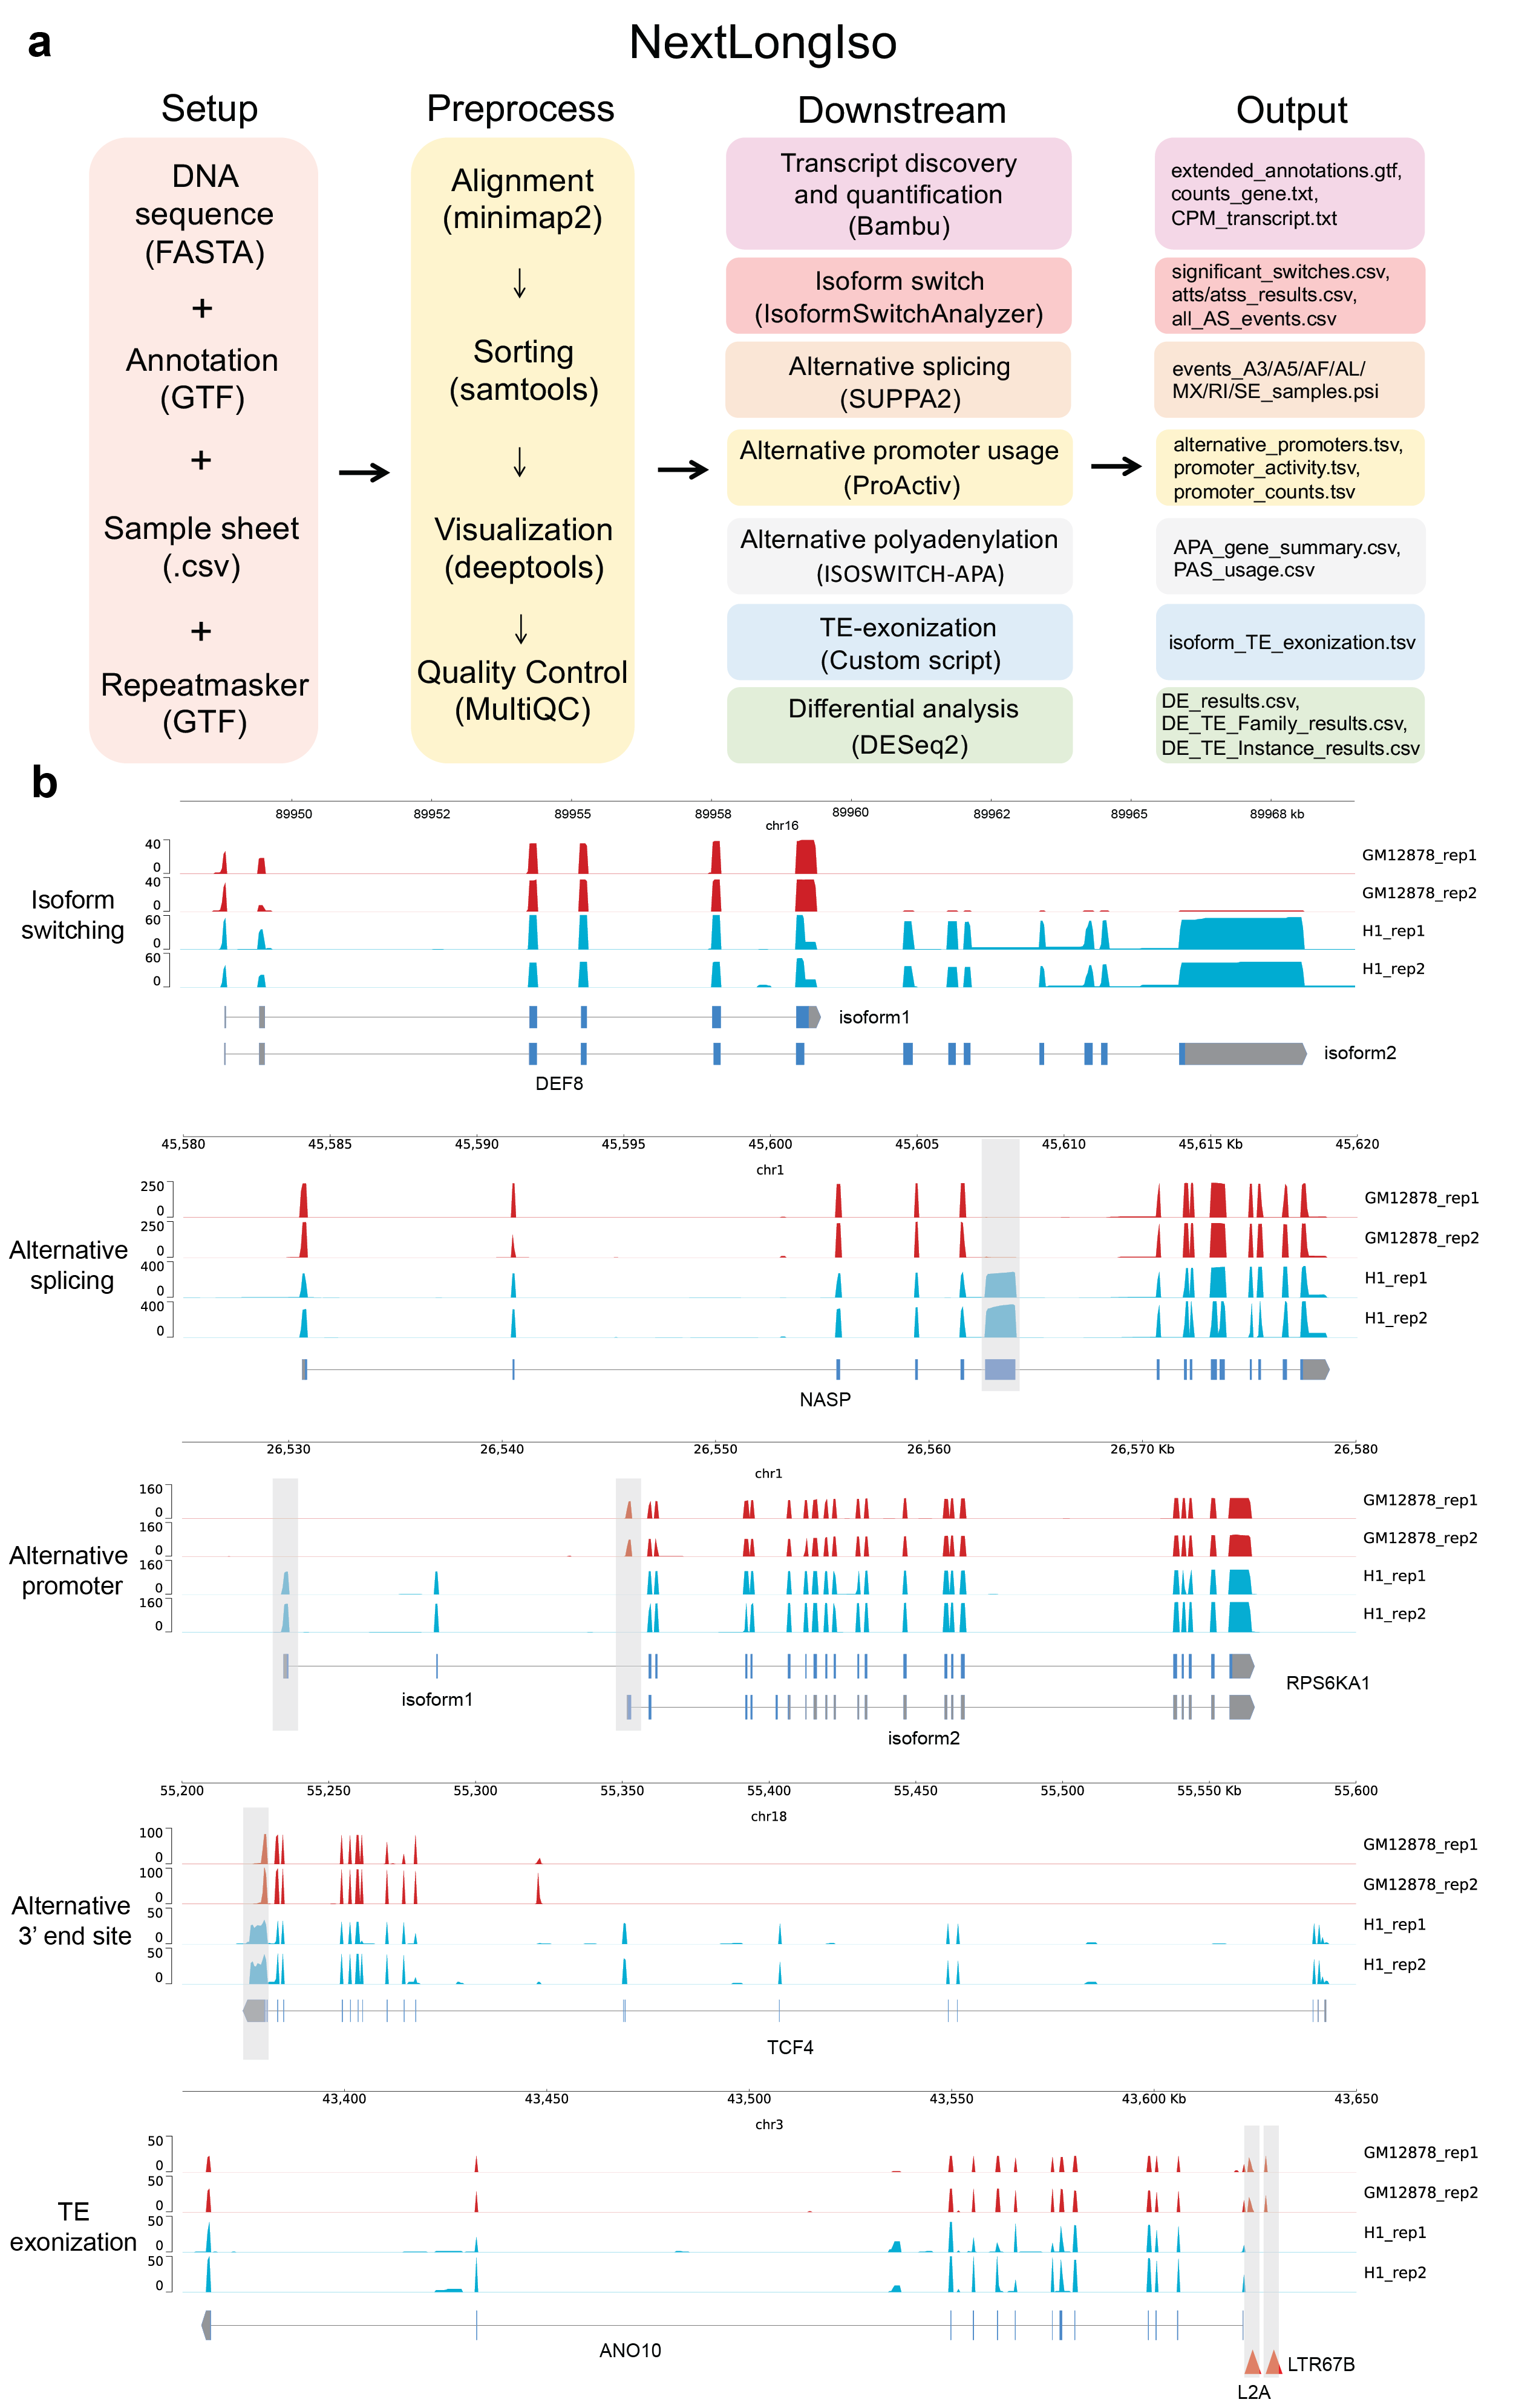
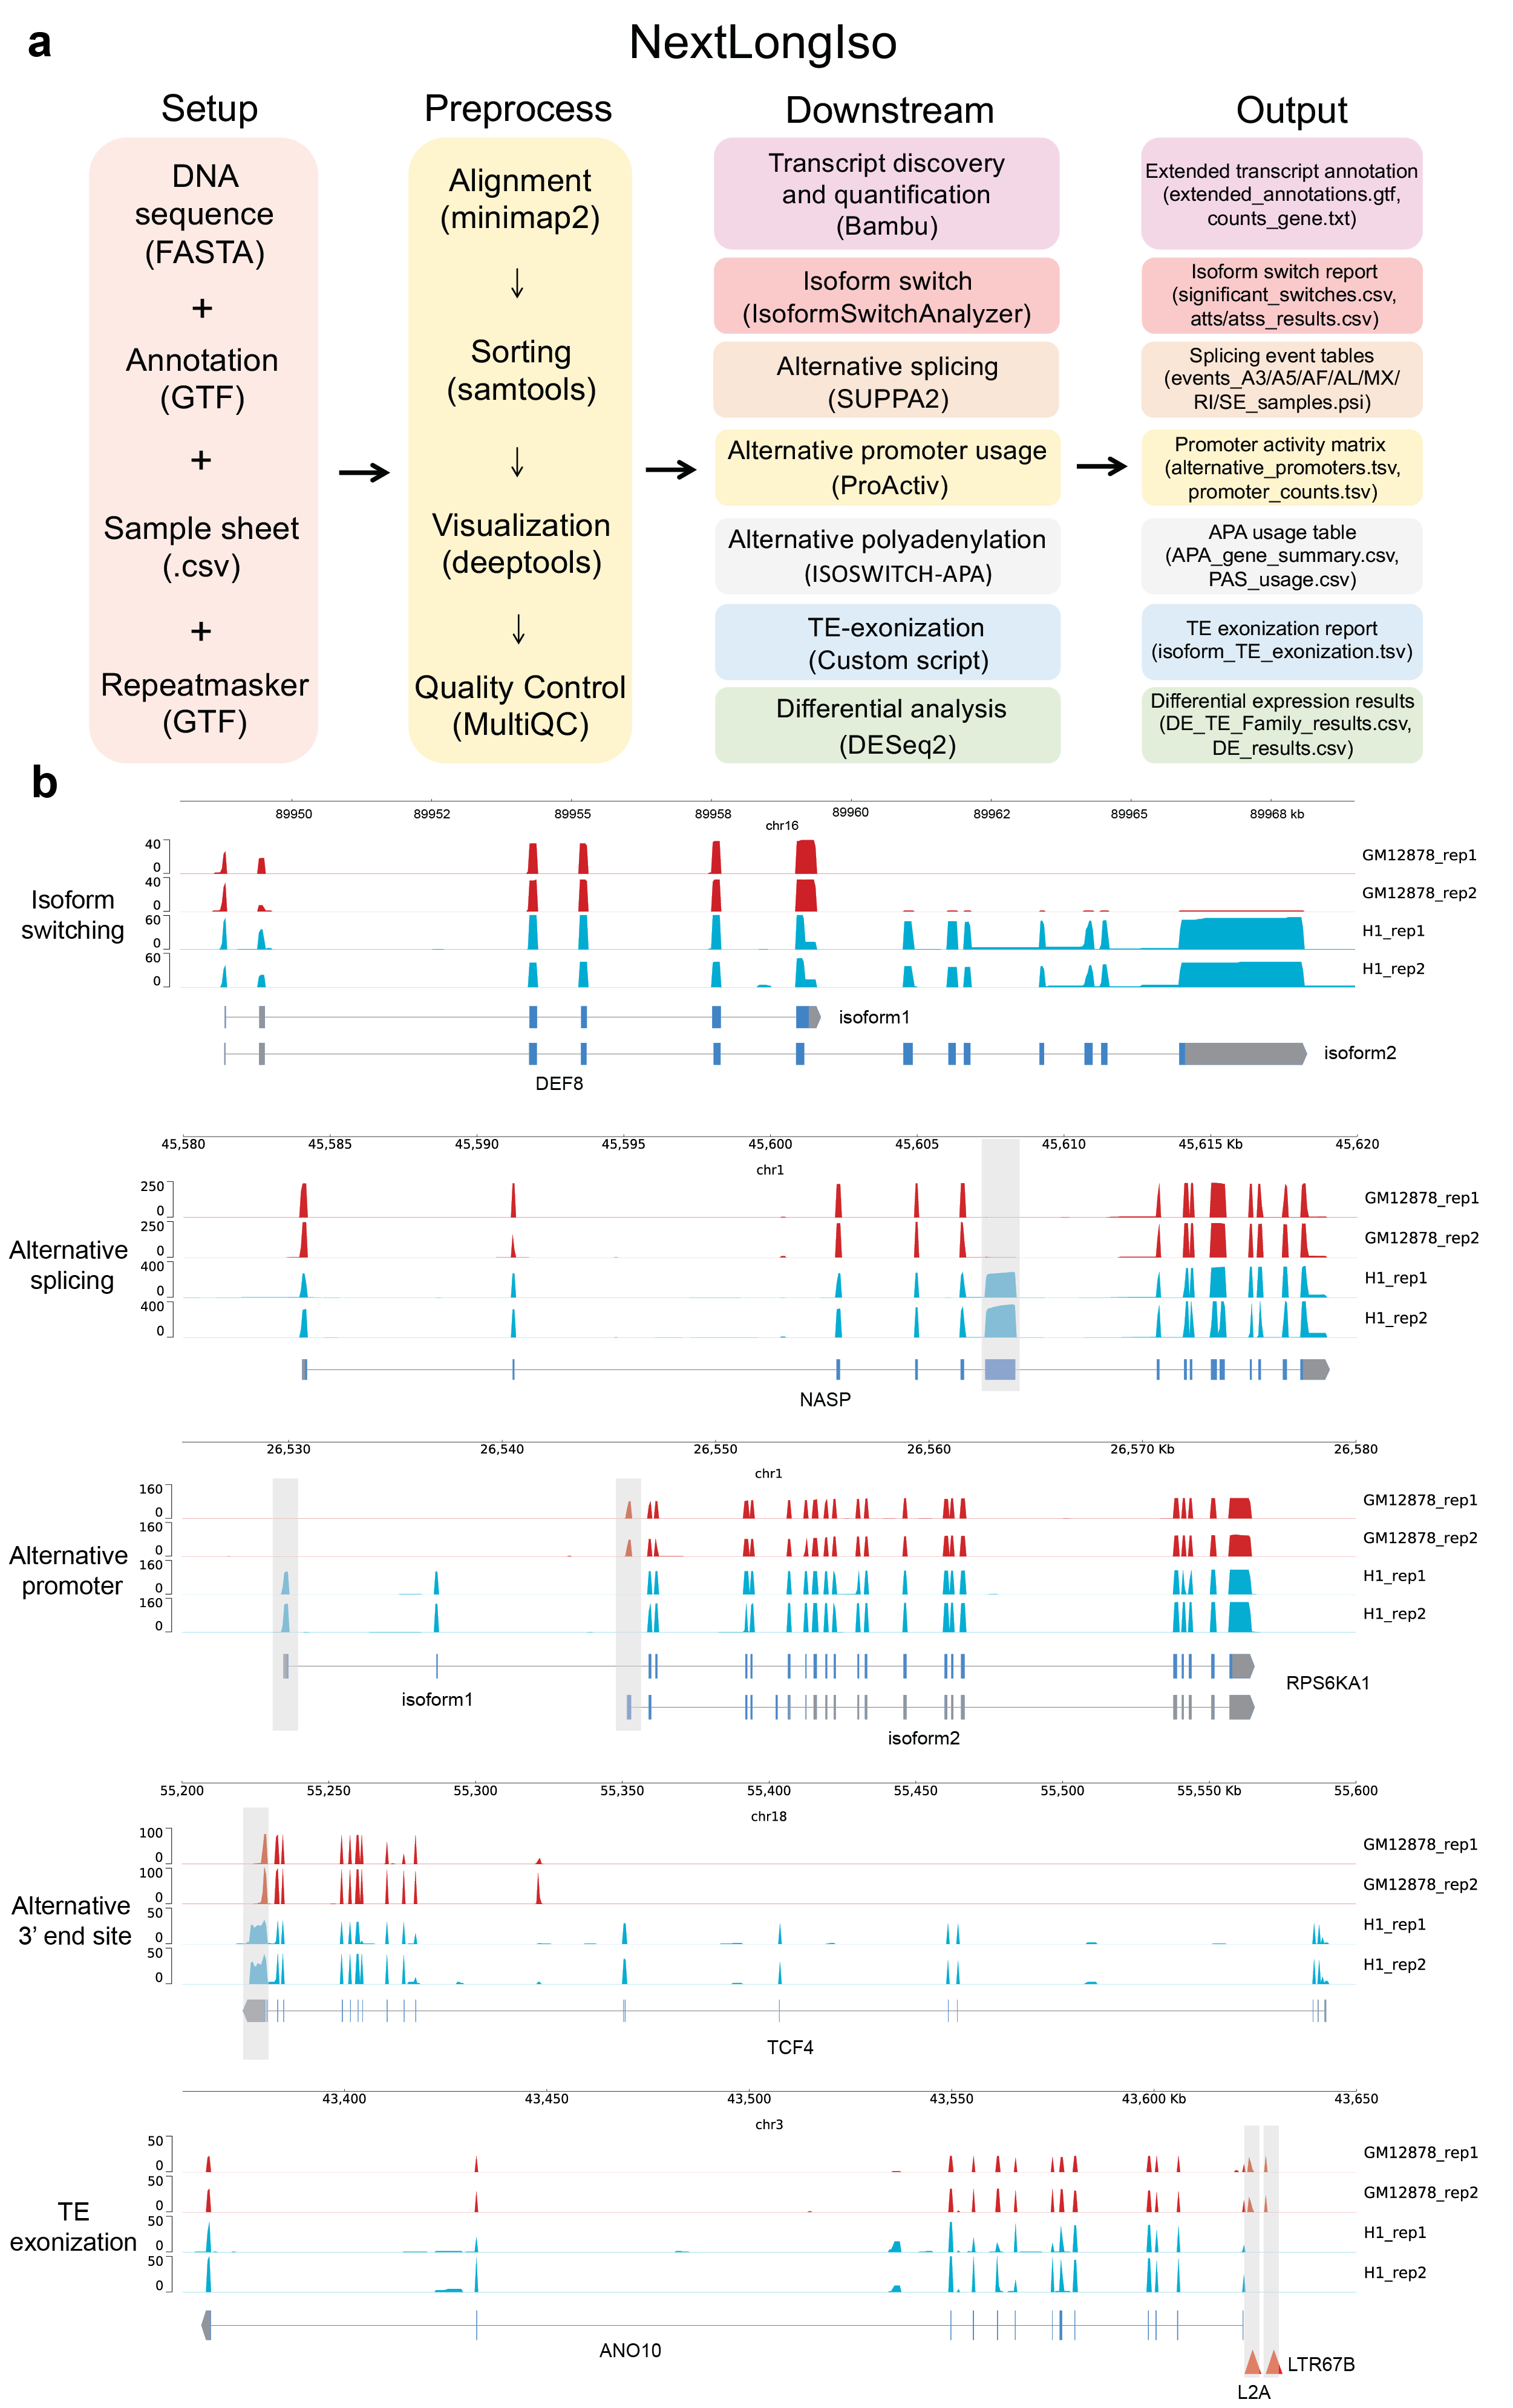
update

diff --git a/README.md b/README.md
@@ -22,76 +22,65 @@ Figure 1. Overview of the NextLongIso pipeline, showing read alignment, isoform 
 
 To run NextLongIso, you need **Nextflow (≥ 25.10.0)** and **Apptainer** or **Singularity. Internet access is required on the first run to pull containers (~several GB total).
 
-1. Install via Conda (Recommended). Note that Python versions 3.11 - 3.13 are natively supported.
+1. Environment Setup (Recommended)
+Use Conda to install the dependencies required to run the pipeline:
 
 ```bash
 # Create and activate environment
-conda create -n nf-LongIso \
-    nf-longiso \
-    nextflow \
+conda create -n nf-LongIso -c conda-forge -c bioconda \
+    nextflow=25.10.0 \
     apptainer \
     openjdk=17 \
     graphviz \
-    -y \
-    -c conda-forge \
-    -c bioconda \
-    -c defaults
+    -y
+```
+
+2. Pipeline Installation
+
+```bash
 conda activate nf-LongIso
-```
 
-2. Install via Pip
-
-```bash
-pip install --user --no-cache-dir nf-LongIso
-```
-
-3. Manual Installation (Build from Source)
-
-```bash
 git clone https://github.com/YidanSunResearchLab/nf-LongIso.git
-cd nf-LongIso
-conda create -n nf-LongIso -c conda-forge python=3.13
-conda activate nf-LongIso
-pip install .
-```
 
-
-🧪 Quick Start
-
-**1. Clone the Repository**
-
-```bash
-git clone https://github.com/YidanSunResearchLab/nf-LongIso.git
 cd nf-LongIso
 ```
 
-**2. Prepare your samplesheet**
-See the example `samplesheet.csv` provided in the data/ repository for the expected format.
-
-🚀 Quick Start for your own genome and sequencing data
+🚀 Quick Start for demo test
 
 **Step 1. Prepare Reference Files (GRCh38/hg38 example)**
-
+```bash
+mkdir -p data/genome
+cd data/genome
+```
 You will need the Genome FASTA, Gene annotation GTF, and TE annotation GTF. Ensure your fasta and gtf are from the same assembly (e.g., GRCh38.p14 → Gencode v38+).
 * **Genome FASTA:** Download from Ensembl or UCSC (primary assembly).
 * **Gene GTF:** Download from Gencode (v47 or newer).
-* **TE GTF:** Download from the RepeatMasker or generate from the UCSC Table Browser (hg38 → Repeats → RepeatMasker → GTF output).
+* **TE GTF:** Download from the RepeatMasker or generate from the UCSC Table Browser (hg38 → Repeats → RepeatMasker → GTF output). Ensure the assembly version matches your Gene GTF and that chromosome nomenclature (e.g., chr1 vs 1) is consistent across all files.
+*Important Note: Inconsistent chromosome naming (e.g., "chr1" in one file and "1" in another) is a common cause of pipeline failure. Always verify the first few lines of your files to ensure they match before starting.*
 
-**Step 2. Process Long-Read Data**
-
-Run the NextLongIso pipeline with your reference files:
+**Step 2. Quick Start**
+#Navigate to the project directory and execute the pipeline using the command below. Note that the file paths are relative to the project root; ensure your reference files are correctly placed in the data/genome/ directory.
 
 ```bash
+cd nf-LongIso
+
 nextflow run main.nf \
   -profile singularity \
   --input_type fastq \
-  --genome /Absolute/path/to/GRCh38.primary_assembly.fa \
-  --gtf /Absolute/path/to/gencode.v47.annotation.gtf \
-  --te_gtf /Absolute/path/to/TEtranscripts_hg38.gtf \
-  --samplesheet /Absolute/path/to/samplesheet.csv \
+  -with-report resource_report.html \
+  --genome data/genome/GRCh38.genome.fa \
+  --gtf data/genome/gencode.annotation.gtf \
+  --te_gtf data/genome/TEtranscript_hg38_rmsk_TE.gtf \
+  --samplesheet demo/samplesheet.csv \
   -resume
 ```
-*Note: The `-resume` flag reuses previous computations if nothing changed, saving significant time.*
+
+Understanding the Flags:
+-profile singularity: Tells Nextflow to use Singularity/Apptainer containers for reproducible environments; 
+--input_type fastq: Specifies the format of your input data; 
+-with-report resource_report.html: Generates a detailed report of the CPU and memory usage of each process; 
+-resume: Enables the cache mechanism, allowing the pipeline to skip previously completed tasks if you need to rerun or fix a specific part. 
+*Note: During the first run, the pipeline will download required containers, which may take some time depending on your internet connection. We recommend using the -resume flag for all future executions; it intelligently tracks progress and reuses successful results, drastically reducing runtime.*
 
 **Output Directory
 After a successful run, NextLongIso generates the following output directories and representative files.